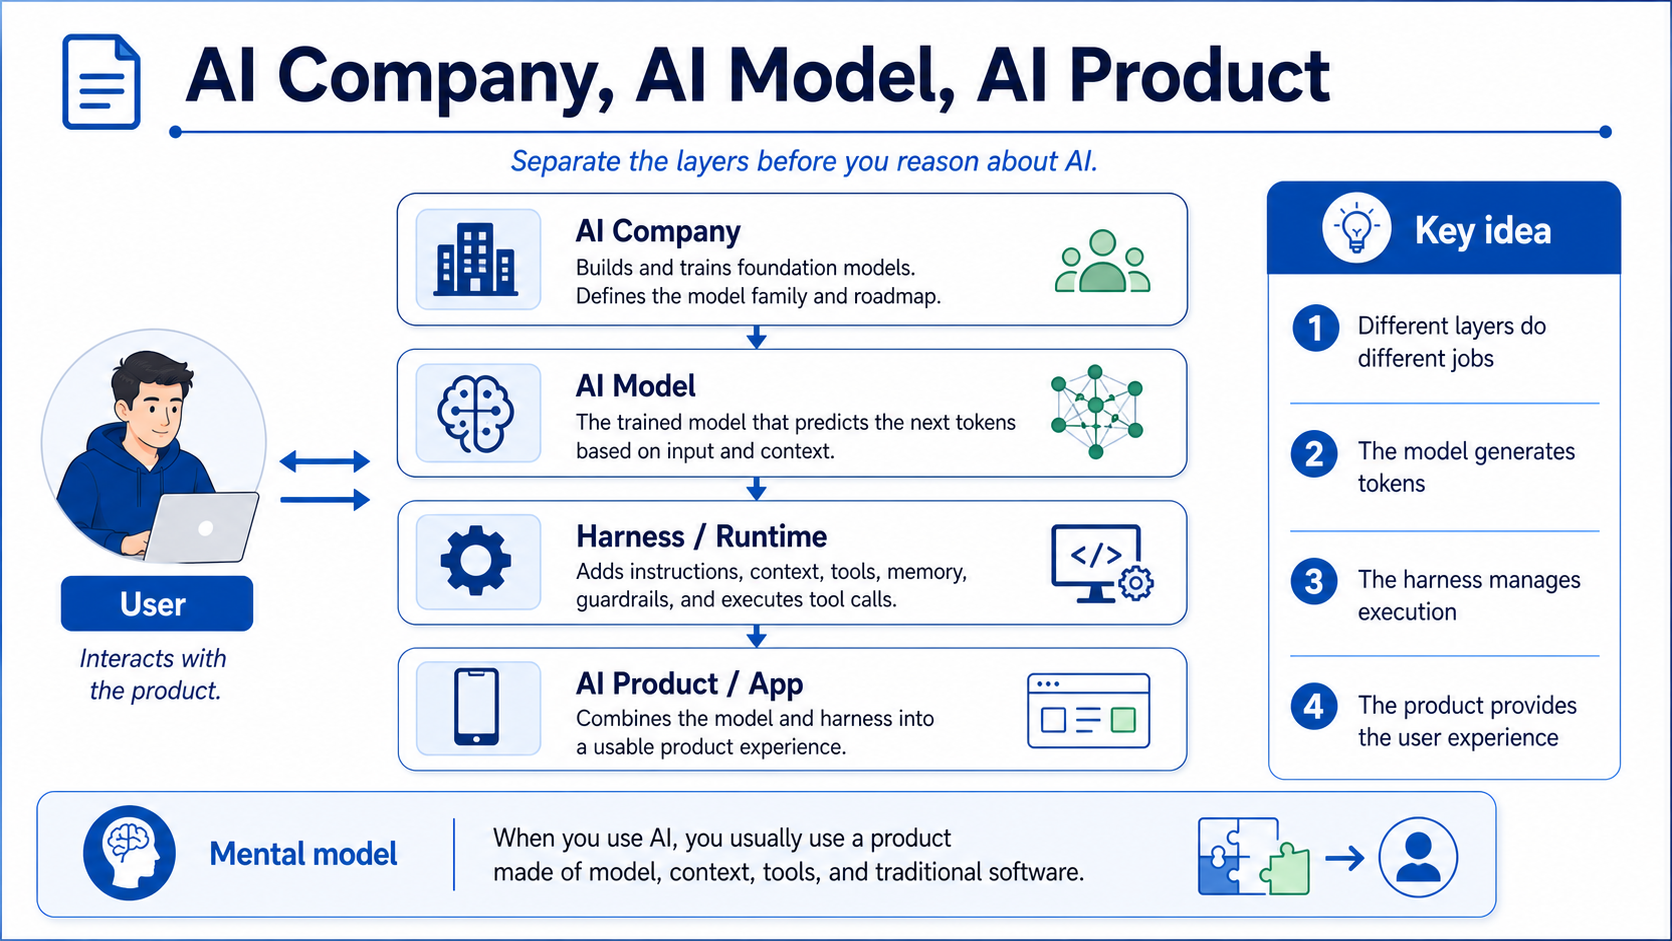
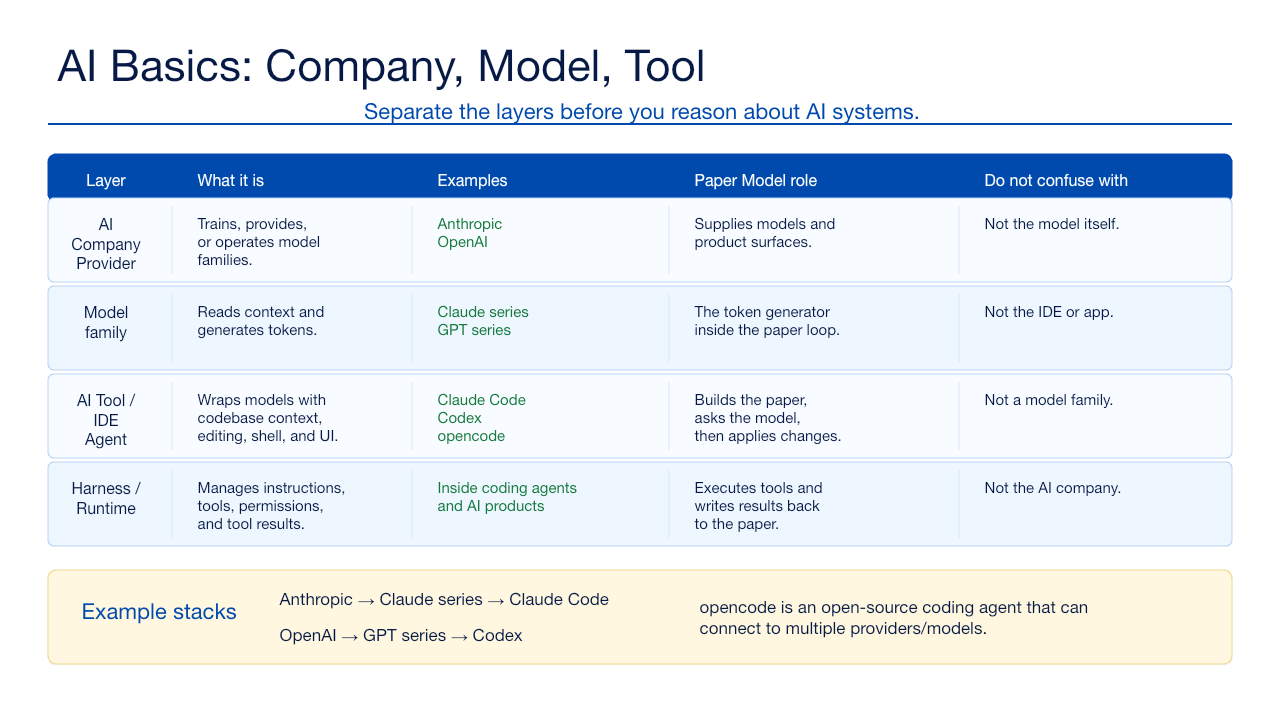
Revise lesson 1 opening concept map

diff --git a/docs/course-outline.md b/docs/course-outline.md
@@ -51,41 +51,47 @@ After this lesson, learners should understand:
 
 ---
 
-## 1.1 AI Company, AI Model, AI Product
+## 1.1 AI Company, AI Model, AI Tool
 
 ### Core idea
 
 Separate the layers:
 
 - **AI Company**: trains, provides, or operates AI models.
-- **AI Model**: generates tokens.
-- **AI Product / App**: the interface users interact with.
-- **Harness / Runtime**: the software layer around the model that manages context, tools, permissions, safety, logging, and control flow.
+- **AI Model / Model Family**: reads context and generates tokens.
+- **AI Tool / IDE / Agentic Coding Product**: the product users operate, such as a coding agent or IDE extension.
+- **Harness / Runtime**: the software layer inside the product that manages context, tools, permissions, safety, logging, and control flow.
 
 ### Suggested explanation
 
 > When we say “I’m using AI,” we are usually not only using a model. We are using a product made of model, context, tools, and traditional software.
 
+Examples:
+
+| Layer | Examples | Do not confuse with |
+|---|---|---|
+| AI Company / Provider | Anthropic, OpenAI | The model itself |
+| Model Family | Claude series, GPT series | The IDE or app |
+| AI Tool / IDE / Agent | Claude Code, Codex, opencode | The model family |
+| Harness / Runtime | The software layer inside tools/products | The AI company |
+
 ### Suggested visual
 
-**AI Product Layer Diagram**
+**AI Layer Map Table**
 
 ```text
-Model
-  ↓
+AI Company / Provider
+Model Family
+AI Tool / IDE / Agent
 Harness / Runtime
-  ↓
-Product Interface
-  ↓
-User
 ```
 
 Side labels:
 
 ```text
 Model generates tokens.
-Harness manages execution.
-Product provides experience.
+Tool / IDE provides the user workflow.
+Harness manages context, tools, permissions, and execution.
 ```
 
 ---

diff --git a/docs/lesson-01/sources.md b/docs/lesson-01/sources.md
@@ -1,0 +1,16 @@
+# Lesson 1 Sources
+
+These official references support the product and model terminology used on Slide 1.
+
+Accessed: 2026-07-09
+
+## Providers And Models
+
+- OpenAI model documentation: https://developers.openai.com/api/docs/models
+- Anthropic Claude model documentation: https://platform.claude.com/docs/en/about-claude/models/overview
+
+## Coding Tools / Agents
+
+- OpenAI Codex documentation: https://developers.openai.com/codex/
+- Anthropic Claude Code overview: https://code.claude.com/docs/en/overview
+- opencode documentation: https://opencode.ai/docs/

diff --git a/docs/lesson-01/README.md b/docs/lesson-01/README.md
@@ -8,12 +8,13 @@ Lesson 1: **AI Fundamentals: Model, Token, Context, and Tools**
 
 - [PowerPoint deck](../../decks/lesson-01-ai-fundamentals.pptx)
 - [Presenter guide](presenter-guide.md)
+- [Sources](sources.md)
 
 ## Visual Index
 
 | File | Course Section | Purpose |
 |---|---|---|
-| `assets/01-ai-company-model-product.png` | 1.1 AI Company, AI Model, AI Product | 区分 AI 公司、模型、产品和 Harness / Runtime |
+| `assets/01-ai-company-model-product.png` | 1.1 AI Company, AI Model, AI Tool | 使用表格区分 AI 公司、模型系列、AI 工具 / IDE 和 Harness / Runtime |
 | `assets/02-ai-paper-interaction.png` | 1.2 AI Hello World | 解释用户、纸面上下文与 AI 模型之间的基本互动 |
 | `assets/03-tokenization.png` | 1.3 Token | 解释模型处理 token，而不是直接处理完整自然语言句子 |
 | `assets/04-single-turn-model-input.png` | 1.4 A Single Turn Becomes Model Input | 解释单轮输入如何写入纸面、tokenized 并与上下文合并 |
@@ -28,9 +29,9 @@ Lesson 1: **AI Fundamentals: Model, Token, Context, and Tools**
 
 ## Images
 
-### 1.1 AI Company, AI Model, AI Product
+### 1.1 AI Company, AI Model, AI Tool
 
-![AI Company, AI Model, AI Product](assets/01-ai-company-model-product.png)
+![AI Company, AI Model, AI Tool](assets/01-ai-company-model-product.png)
 
 ### 1.2 AI Hello World
 

diff --git a/docs/lesson-01/presenter-guide.md b/docs/lesson-01/presenter-guide.md
@@ -14,7 +14,7 @@ By the end, learners should understand that an AI model is only one layer of an 
 
 | Slide | Section | Narrative job | Presenter bridge |
 |---|---|---|---|
-| 1 | 1.1 AI Company, AI Model, AI Product | Separate the business, model, runtime, and product layers. | "Before we talk about prompts or agents, separate the layers people often collapse into one word: AI." |
+| 1 | 1.1 AI Company, AI Model, AI Tool | Separate providers, model families, coding tools, and harness/runtime. | "Before we talk about prompts or agents, separate the layers people often collapse into one word: AI. Then we will zoom in to how the model reads and writes paper context." |
 | 2 | 1.2 AI Hello World | Establish the paper model: user and model interact through visible written context. | "Now zoom into the smallest possible interaction. Everything goes through the shared paper." |
 | 3 | 1.3 Token | Replace the human view of words with the model view of token sequences. | "The paper is human-readable, but the model does not consume it as human sentences." |
 | 4 | 1.4 A Single Turn Becomes Model Input | Show how a single user turn becomes part of the full model input. | "A message does not go to the model alone; it joins the current visible paper." |
@@ -35,6 +35,7 @@ By the end, learners should understand that an AI model is only one layer of an 
 - For an engineering audience, the strongest repeated phrase is: "The model reads and writes context; the harness manages execution."
 - Security note for Slide 10: tool outputs and retrieved content are data, not trusted instructions. This is the bridge to prompt-injection thinking in later lessons.
 - Compacting note for Slide 9: a summary may be generated by the model or harness and should be treated as lossy. Ask learners to verify important constraints after compaction.
+- Slide 1 uses examples current to this version: Anthropic and OpenAI as providers, Claude and GPT as model families, and Claude Code, Codex, and opencode as coding tools/agents.
 
 ## Optional Discussion Prompts
 